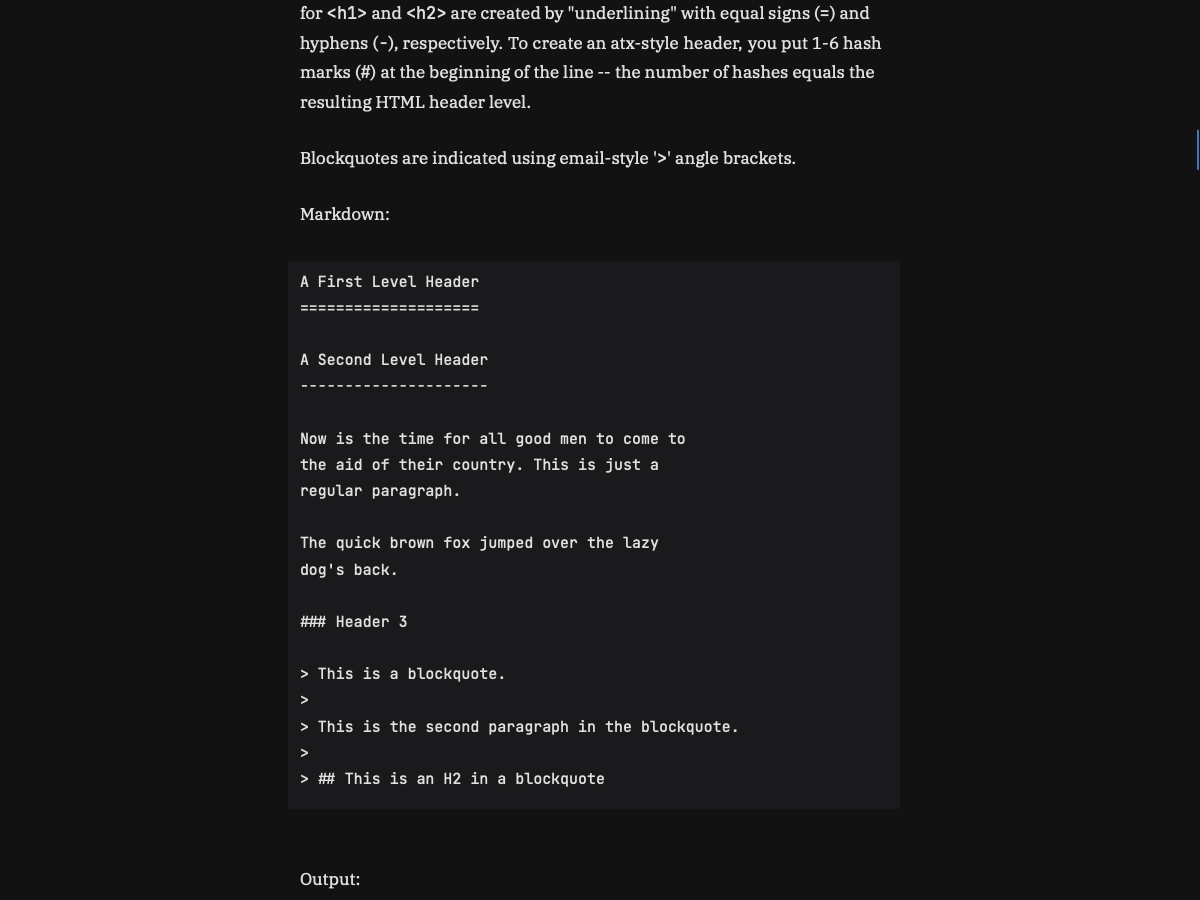
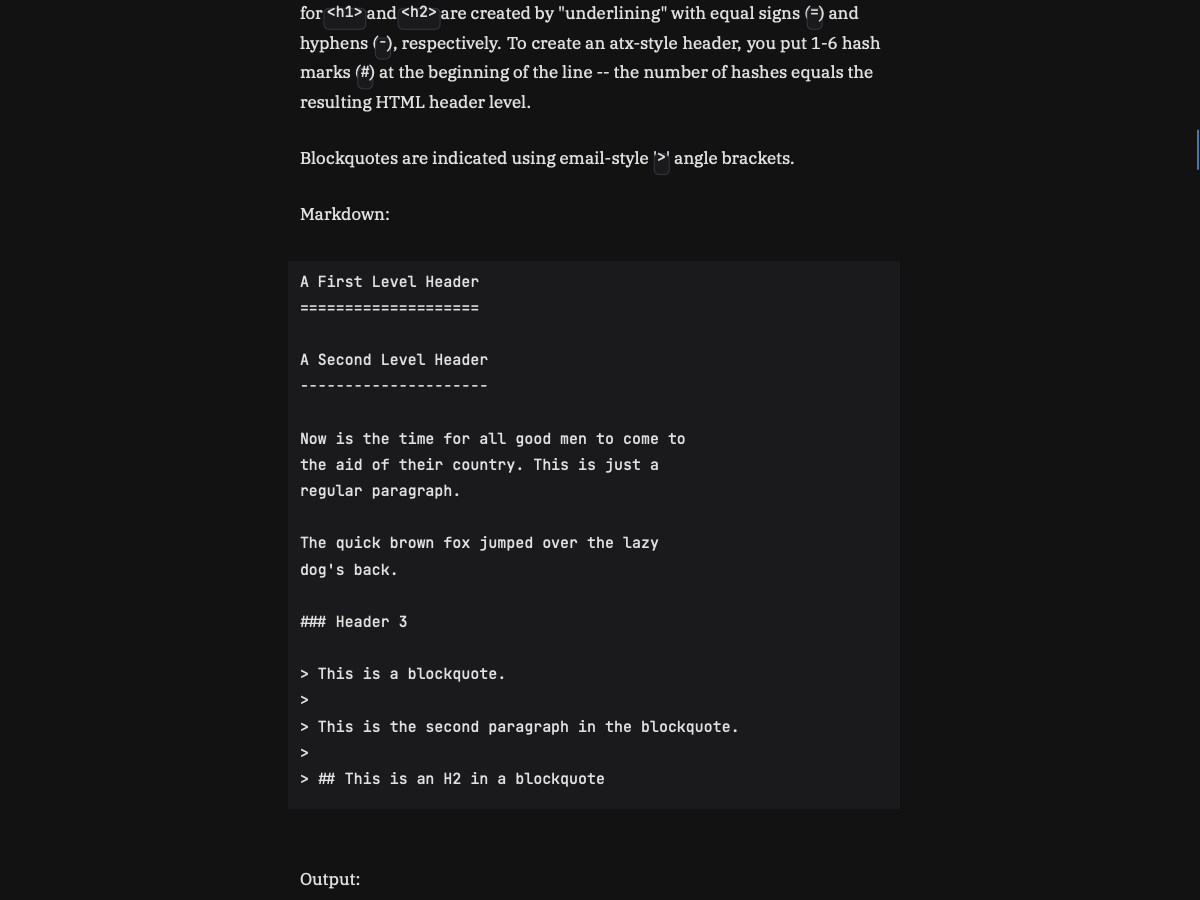
[#23] Premium inline-code pill, no mid-phrase breaks
Inline code spans flow atomically at 0.88em JetBrains Mono inside a
subtle pill (3px horizontal padding, 5px radius, 1.4em height,
theme code_bg fill + code_border 1px edge, new inline_code_bg
command -> platform_draw_pill CG rounded-rect path shared by window
and headless capture). Whole-span wrap: lines break at span
boundaries, never mid-phrase. Block code (fenced/indented/quoted)
keeps the legacy full-size path; tables keep their direct path.
Pinned by test 'design #23' incl. measure/render pen agreement.

Closes #23.

Changed region(s): [[0.2775, 0.0, 0.74, 0.0933], [0.555, 0.1556, 0.6783, 0.1867]]

diff --git a/src/platform/macos.m b/src/platform/macos.m
@@ -1725,6 +1725,35 @@ void platform_draw_rect(float x, float y, float w, float h, unsigned char r, uns
     CGContextFillRect(ctx, CGRectMake(x, y, w, h));
 }
 
+// Inline-code pill (issue #23): rounded-rect fill + 1px border. Pure
+// CoreGraphics (no NSBezierPath) so headless bitmap captures take the
+// identical path as windows. Same coordinate convention as
+// platform_draw_rect; the caller's damage clip confines pixels.
+void platform_draw_pill(float x, float y, float w, float h, float radius,
+                        unsigned char fr, unsigned char fg, unsigned char fb, unsigned char fa,
+                        unsigned char br, unsigned char bg, unsigned char bb, unsigned char ba) {
+    if (!g_current_cg_context) return;
+    if (w <= 0.0f || h <= 0.0f) return;
+    CGContextRef ctx = g_current_cg_context;
+
+    float r = fminf(radius, fminf(w, h) * 0.5f);
+    float x0 = x, y0 = y, x1 = x + w, y1 = y + h;
+    CGContextMoveToPoint(ctx, x0 + r, y0);
+    CGContextAddLineToPoint(ctx, x1 - r, y0);
+    CGContextAddArcToPoint(ctx, x1, y0, x1, y0 + r, r);
+    CGContextAddLineToPoint(ctx, x1, y1 - r);
+    CGContextAddArcToPoint(ctx, x1, y1, x1 - r, y1, r);
+    CGContextAddLineToPoint(ctx, x0 + r, y1);
+    CGContextAddArcToPoint(ctx, x0, y1, x0, y1 - r, r);
+    CGContextAddLineToPoint(ctx, x0, y0 + r);
+    CGContextAddArcToPoint(ctx, x0, y0, x0 + r, y0, r);
+    CGContextClosePath(ctx);
+    CGContextSetRGBFillColor(ctx, fr / 255.0f, fg / 255.0f, fb / 255.0f, fa / 255.0f);
+    CGContextSetRGBStrokeColor(ctx, br / 255.0f, bg / 255.0f, bb / 255.0f, ba / 255.0f);
+    CGContextSetLineWidth(ctx, 1.0);
+    CGContextDrawPath(ctx, kCGPathFillStroke);
+}
+
 void platform_register_code_block(float x, float y, float w, float h, const char* code_text, int code_len) {
     if (g_code_block_count >= MAX_CODE_BLOCKS) return;
     CodeBlockRecord* b = &g_code_blocks[g_code_block_count++];
